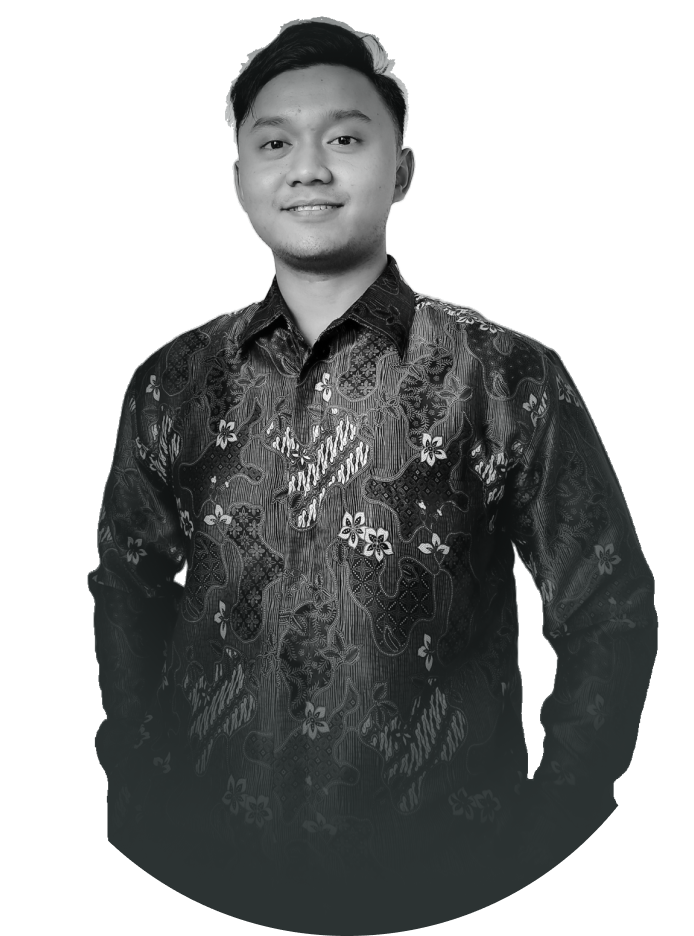
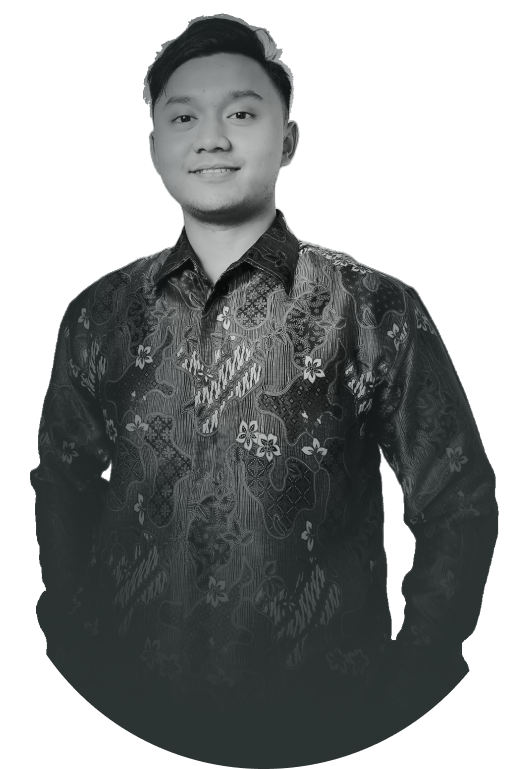
update website 12/8/2023

diff --git a/src/components/Hero.jsx b/src/components/Hero.jsx
@@ -2,26 +2,79 @@ import PropTypes from "prop-types";
 
 export const Hero = ({ style }) => {
   return (
-    <section className="py-80 md:py-40" style={style}>
-      <div className="relative mx-auto px-5 md:px-20">
-        <div className="text-white">
-          <div className="flex flex-col">
-            <span className="text-8xl md:text-9xl xl:text-[200px] leading-normal font-black uppercase tracking-widest">
-              Iqbal
-            </span>
-            <span className="text-8xl md:text-9xl xl:text-[200px] leading-normal font-black uppercase tracking-widest">
-              Zayyan.
-            </span>
+    <section className="mx-auto px-5 py-5 md:px-20" style={style}>
+      <div className="w-full flex flex-col-reverse md:flex-row items-center justify-between">
+        {/* Caption */}
+        <div className="w-full md:w-1/2 flex flex-col items-start gap-10">
+          <div className="text-white">
+            <p className="text-xl mb-10">
+              Hello! I’m
+              <span className="text-primary font-semibold"> Iqbal Zayyan</span>.
+            </p>
+            <h1 className="w-3/4 text-5xl font-extrabold">
+              Freelance Creative Frontend Developer
+            </h1>
           </div>
-          <h1 className="text-xl uppercase tracking-widest">
-            Frontend Developer and Web Designer
-          </h1>
+          <div className="flex items-start gap-10">
+            <svg
+              width={10}
+              height={299}
+              viewBox="0 0 1 277"
+              fill="none"
+              xmlns="http://www.w3.org/2000/svg"
+            >
+              <line
+                x1="0.2"
+                y1="8.74228e-09"
+                x2="0.199988"
+                y2="277"
+                stroke="white"
+                strokeWidth="0.4"
+              />
+            </svg>
+            <div>
+              <p className="text-xl text-white mb-10">
+                I’m a Frontend Developer and Web Designer. I’ve gained
+                experience by being a freelancer since 2020. I specialize in
+                creating visually appealing and user-friendly websites. With my
+                skills in web development and design tools like Figma, I strive
+                to create digital experiences that help businesses achieve their
+                goals. I’m enthusiastic about staying informed on the latest
+                trends and eagerly embracing new technologies and frameworks.
+              </p>
+              <button type="button" className="btn-cta">
+                Let’s Connect
+                <svg
+                  xmlns="http://www.w3.org/2000/svg"
+                  width="24"
+                  height="24"
+                  viewBox="0 0 24 24"
+                  fill="none"
+                >
+                  <mask
+                    id="mask0_845_43"
+                    style={{ maskType: "alpha" }}
+                    maskUnits="userSpaceOnUse"
+                    x="0"
+                    y="0"
+                    width="24"
+                    height="24"
+                  >
+                    <rect width="24" height="24" fill="#D9D9D9" />
+                  </mask>
+                  <g mask="url(#mask0_845_43)">
+                    <path
+                      d="M11.7824 19.9001C11.8491 19.9001 11.9155 19.886 11.9816 19.858C12.0478 19.8299 12.1194 19.7773 12.1966 19.7001L20.0009 11.8957C20.3042 11.5925 20.5301 11.2944 20.6786 11.0014C20.8272 10.7085 20.9015 10.3832 20.9015 10.0256C20.9015 9.63576 20.8355 9.28132 20.7036 8.96229C20.5718 8.64327 20.3667 8.34409 20.0884 8.06474L16.7238 4.70009C16.5216 4.49067 16.2718 4.34248 15.9743 4.25551C15.6768 4.16856 15.3854 4.12509 15.0999 4.12509C14.831 4.12509 14.5333 4.20398 14.2066 4.36176C13.88 4.51956 13.6214 4.68433 13.4308 4.85606L13.4205 4.88051L15.0825 6.56584C15.3712 6.86402 15.5857 7.18277 15.7259 7.52209C15.8662 7.8614 15.9363 8.23541 15.9363 8.64411C15.9363 9.42383 15.6668 10.0873 15.1278 10.6346C14.5889 11.1819 13.9296 11.4555 13.1498 11.4555C12.7506 11.4555 12.3792 11.3854 12.0357 11.2452C11.6922 11.105 11.3714 10.89 11.0732 10.6001L9.37809 8.97836L5.44059 12.9017C5.37392 12.9684 5.32392 13.0374 5.29059 13.1088C5.25725 13.1802 5.24059 13.2492 5.24059 13.3158C5.24059 13.4492 5.28824 13.5632 5.38354 13.658C5.47882 13.7527 5.59313 13.8001 5.72646 13.8001C5.79313 13.8001 5.87049 13.7772 5.95854 13.7313C6.04657 13.6855 6.10725 13.6418 6.14059 13.6001L8.61939 11.1354C8.80272 10.9521 9.02147 10.8583 9.27564 10.8542C9.5298 10.85 9.75272 10.9437 9.94439 11.1354C10.1277 11.3187 10.2194 11.5396 10.2194 11.7979C10.2194 12.0562 10.1277 12.2771 9.94439 12.4604L7.47809 14.9251C7.40309 15.0001 7.351 15.0735 7.32184 15.1455C7.29267 15.2174 7.27809 15.2867 7.27809 15.3533C7.27809 15.495 7.3213 15.609 7.40771 15.6955C7.49413 15.7819 7.60817 15.8251 7.74984 15.8251C7.82484 15.8251 7.90428 15.8001 7.98816 15.7501C8.07203 15.7001 8.13534 15.6584 8.17809 15.6251L10.6145 13.1871C10.7978 13.0037 11.0189 12.9123 11.2778 12.9129C11.5367 12.9134 11.7573 13.0048 11.9395 13.1871C12.1228 13.3704 12.2145 13.5912 12.2145 13.8496C12.2145 14.1079 12.1228 14.3287 11.9395 14.5121L9.47321 16.9767C9.41596 17.035 9.36831 17.102 9.33026 17.1775C9.29223 17.2531 9.27321 17.3242 9.27321 17.3908C9.27321 17.5325 9.31877 17.6489 9.40989 17.74C9.50102 17.8312 9.61742 17.8767 9.75909 17.8767C9.82575 17.8767 9.89477 17.86 9.96614 17.8267C10.0375 17.7934 10.1065 17.7434 10.1732 17.6767L12.6379 15.2104C12.8212 15.0271 13.0423 14.9357 13.3012 14.9362C13.5601 14.9368 13.7806 15.0282 13.9629 15.2104C14.1462 15.3937 14.2379 15.6146 14.2379 15.8729C14.2379 16.1312 14.1462 16.3521 13.9629 16.5354L11.4982 19.0001C11.4315 19.0668 11.3815 19.1381 11.3482 19.2142C11.3149 19.2903 11.2982 19.3617 11.2982 19.4283C11.2982 19.57 11.3435 19.684 11.4341 19.7705C11.5247 19.8569 11.6408 19.9001 11.7824 19.9001ZM11.7841 22.2132C11.1442 22.2132 10.5648 22.0147 10.0458 21.6178C9.52673 21.2208 9.22229 20.7077 9.13244 20.0784C8.60345 19.9762 8.15327 19.7412 7.78189 19.3735C7.4105 19.0057 7.17373 18.5573 7.07156 18.0284C6.552 17.9168 6.11485 17.6823 5.76014 17.3251C5.40544 16.9679 5.17229 16.5331 5.06069 16.0208C4.46794 15.9153 3.9577 15.6005 3.52999 15.0762C3.10227 14.5519 2.88841 13.9568 2.88841 13.2908C2.88841 12.9104 2.95644 12.5526 3.09249 12.2175C3.22854 11.8823 3.43207 11.5751 3.70309 11.2957L7.58839 7.41041C8.0786 6.9202 8.67127 6.67509 9.36639 6.67509C10.0615 6.67509 10.6542 6.9202 11.1444 7.41041L12.6841 8.95009C12.7529 9.01784 12.8248 9.06865 12.8998 9.10254C12.9748 9.1364 13.0504 9.15334 13.1265 9.15334C13.267 9.15334 13.3847 9.10542 13.4795 9.00959C13.5742 8.91375 13.6216 8.79139 13.6216 8.64249C13.6216 8.57582 13.6026 8.49375 13.5645 8.39629C13.5265 8.29882 13.4824 8.23342 13.4324 8.20009L9.89006 4.65769C9.72448 4.48379 9.49811 4.35155 9.21096 4.26096C8.92383 4.17038 8.62809 4.12509 8.32374 4.12509C8.02664 4.12509 7.7338 4.16205 7.44521 4.23596C7.15661 4.30988 6.91703 4.44212 6.72646 4.63269L3.62429 7.73324C3.47755 7.87997 3.35709 8.0768 3.26289 8.32371C3.16869 8.57063 3.11796 8.85514 3.11071 9.17726C3.10346 9.42073 3.129 9.63087 3.18734 9.80769C3.24567 9.98449 3.31016 10.1457 3.38081 10.2914L1.71994 11.9523C1.44602 11.6254 1.22229 11.2125 1.04874 10.7134C0.875187 10.2143 0.792029 9.70226 0.799262 9.17726C0.806512 8.60696 0.895279 8.06701 1.06556 7.55741C1.23586 7.0478 1.52735 6.58665 1.94004 6.17396L5.15306 2.94681C5.523 2.5758 5.98785 2.29391 6.54764 2.10116C7.10742 1.9084 7.69945 1.81201 8.32374 1.81201C8.93462 1.81201 9.51914 1.92506 10.0773 2.15116C10.6354 2.37725 11.1203 2.68666 11.5319 3.07941L11.6939 3.22724L11.8417 3.07941C12.2428 2.70549 12.7357 2.40079 13.3205 2.16529C13.9053 1.92977 14.4984 1.81201 15.0999 1.81201C15.7825 1.81201 16.4096 1.93864 16.9814 2.19191C17.5531 2.44518 18.0245 2.75732 18.3955 3.12834L21.8624 6.58104C22.3084 7.02705 22.6429 7.54744 22.8659 8.14219C23.0889 8.73694 23.2004 9.3642 23.2004 10.024C23.2004 10.6682 23.0756 11.2825 22.8259 11.8669C22.5763 12.4514 22.2066 12.9885 21.7167 13.4784L13.795 21.3876C13.5145 21.668 13.207 21.8757 12.8724 22.0107C12.5378 22.1457 12.175 22.2132 11.7841 22.2132Z"
+                      fill="#2C3333"
+                    />
+                  </g>
+                </svg>
+              </button>
+            </div>
+          </div>
         </div>
-        <img
-          src="./design/explore.svg"
-          alt=""
-          className="fixed w-[450px] object-cover -right-20 -bottom-32 -z-50 animate-spin-slow"
-        />
+        {/* Img */}
+        <img src="./content/profile-2.png" alt="" className="object-cover" />
       </div>
     </section>
   );
@@ -30,3 +83,11 @@ export const Hero = ({ style }) => {
 Hero.propTypes = {
   style: PropTypes.object.isRequired,
 };
+
+{
+  /* <img
+  src="./design/explore.svg"
+  alt=""
+  className="fixed w-[450px] object-cover -right-20 -bottom-32 -z-50 animate-spin-slow"
+/>; */
+}

diff --git a/src/components/Skills.jsx b/src/components/Skills.jsx
@@ -1,0 +1,59 @@
+import PropTypes from "prop-types";
+
+export const Skills = ({ style }) => {
+  const dataSkills = [
+    {
+      name: "Core",
+      skillList: [
+        "HTML",
+        "CSS",
+        "Javascript",
+        "Web Design",
+        "Responsive Design",
+      ],
+    },
+    {
+      name: "Libraries & Frameworks",
+      skillList: [
+        "React Js",
+        "Tailwindcss",
+        "Express Js",
+        "Node Js",
+        "MongoDB",
+      ],
+    },
+    {
+      name: "Tools & PLatforms",
+      skillList: ["Figma", "Git", "Vercel"],
+    },
+  ];
+  return (
+    <section className="mx-auto px-5 py-5 md:px-20" style={style}>
+      <div className="w-full flex flex-col text-white">
+        <div className="border-white border-b-[0.4px] py-12">
+          <h2 className="text-5xl font-extrabold mb-2">Skills</h2>
+          <p className="text-xl">Current areas of proficiency</p>
+        </div>
+        {dataSkills.map((skillGroup) => (
+          <div
+            key={skillGroup.name}
+            className="flex items-start justify-between hover:bg-third border-white border-b-[0.4px] py-12"
+          >
+            <h2 className="text-3xl mb-2">{skillGroup.name}</h2>
+            <div className="w-[30%] flex flex-wrap gap-5">
+              {skillGroup.skillList.map((skillItem) => (
+                <ul key={skillItem}>
+                  <li className="btn-cta">{skillItem}</li>
+                </ul>
+              ))}
+            </div>
+          </div>
+        ))}
+      </div>
+    </section>
+  );
+};
+
+Skills.propTypes = {
+  style: PropTypes.object.isRequired,
+};

diff --git a/src/components/Header.jsx b/src/components/Header.jsx
@@ -1,6 +1,7 @@
 import PropTypes from "prop-types";
 import { useState } from "react";
 import { Menu } from "./Menu";
+import { Links } from "./Links";
 
 export const Header = ({ style }) => {
   const [menu, setMenu] = useState(false);
@@ -11,8 +12,8 @@ export const Header = ({ style }) => {
 
   return (
     <>
-      <header className="relative pb-40 md:pb-40" style={style}>
-        <nav className="fixed w-full top-0 px-5 py-10 md:px-20 z-50 flex items-center justify-between">
+      <header className="px-5 py-10 md:px-20" style={style}>
+        <nav className="flex items-center justify-between">
           <a href="./index.html">
             <img
               src="./design/logo.svg"
@@ -21,7 +22,14 @@ export const Header = ({ style }) => {
             />
           </a>
 
-          <button type="button" onClick={toggleMenu} className="outline-none">
+          <Links />
+
+          {/* Mobile */}
+          <button
+            type="button"
+            onClick={toggleMenu}
+            className="block md:hidden outline-none"
+          >
             <svg
               viewBox="0 0 30 30"
               fill="none"

diff --git a/src/App.jsx b/src/App.jsx
@@ -1,7 +1,7 @@
 import { useState, useEffect } from "react";
 import { Header } from "./components/Header";
 import { Hero } from "./components/Hero";
-import { About } from "./components/About";
+import { Skills } from "./components/Skills";
 import { Portfolio } from "./components/Portfolio";
 import { Footer } from "./components/Footer";
 
@@ -31,9 +31,12 @@ export default function App() {
 
   return (
     <>
+      <header className=" bg-red-400 px-5 py-10 md:px-20">
+        <h1 className="text-2xl text-white font-semibold">Maintenance</h1>
+      </header>
       <Header style={zoomStyle} />
       <Hero style={zoomStyle} />
-      <About style={zoomStyle} />
+      <Skills style={zoomStyle} />
       <Portfolio style={zoomStyle} />
       <Footer style={zoomStyle} />
     </>

diff --git a/src/components/Links.jsx b/src/components/Links.jsx
@@ -1,16 +1,16 @@
 export const Links = () => {
   const dataLinks = [
-    { link: "About Me", url: "#about" },
     { link: "Portfolio", url: "#portfolio" },
+    { link: "Blog", url: "#blog" },
     { link: "Contact", url: "#contact" },
   ];
   return (
-    <ul className="flex flex-col items-start gap-10 xl:gap-20">
+    <ul className="flex items-center gap-16">
       {dataLinks.map((linkItem) => (
         <li key={linkItem.link}>
           <a
             href={linkItem.url}
-            className="text-2xl text-white hover:font-bold outline-none"
+            className="text-xl text-white hover:font-extrabold transition-basic outline-none"
           >
             {linkItem.link}
           </a>

diff --git a/src/index.css b/src/index.css
@@ -18,10 +18,18 @@
     .connect-item {
         @apply hover:bg-secondary text-secondary hover:text-white border-2 border-secondary rounded-full px-6 py-4
     }
+
+    .btn-cta {
+        @apply bg-white hover:bg-primary hover:text-white flex gap-5 transition-basic px-6 py-3 rounded-lg
+    }
 }
 
 @layer utilities {
-    .hover-effect {
+    .transition-zoom {
         @apply transform transition-all duration-500 ease-in-out hover:scale-125
+    }
+
+    .transition-basic {
+        @apply transition-all duration-300 ease-in-out
     }
 }

diff --git a/src/components/Footer.jsx b/src/components/Footer.jsx
@@ -1,5 +1,6 @@
 import PropTypes from "prop-types";
 import { ConnectLinks } from "./Links";
+import { Form } from "./Form";
 
 export const Footer = ({ style }) => {
   return (
@@ -18,6 +19,8 @@ export const Footer = ({ style }) => {
           </p>
         </div>
         <ConnectLinks />
+        <h3 className="text-3xl font-medium mb-5">Message</h3>
+        <Form />
       </div>
     </footer>
   );

diff --git a/src/components/CardItem.jsx b/src/components/CardItem.jsx
@@ -13,7 +13,7 @@ export const CardItem = ({ id, name, imageName, url }) => {
         <img
           src={`./content/portfolio/${imageName}`}
           alt={name}
-          className="object-cover w-full h-full hover-effect"
+          className="object-cover w-full h-full transition-zoom"
         />
       </figure>
     </a>

diff --git a/src/components/Form.jsx b/src/components/Form.jsx
@@ -1,1 +1,10 @@
-export const Form = () => {};
+export const Form = () => {
+  return (
+    <iframe
+      title="Tally Embed"
+      src="https://tally.so/embed/3ExE1o?alignLeft=1&hideTitle=1&transparentBackground=1&dynamicHeight=1"
+      width="100%"
+      height="300"
+    ></iframe>
+  );
+};

diff --git a/tailwind.config.js b/tailwind.config.js
@@ -13,6 +13,7 @@ export default {
       colors: {
         primary: "#0AB88A",
         secondary: "#2C3333",
+        third: "#323939",
       },
       animation: {
         "spin-slow": "spin 14s linear infinite",
